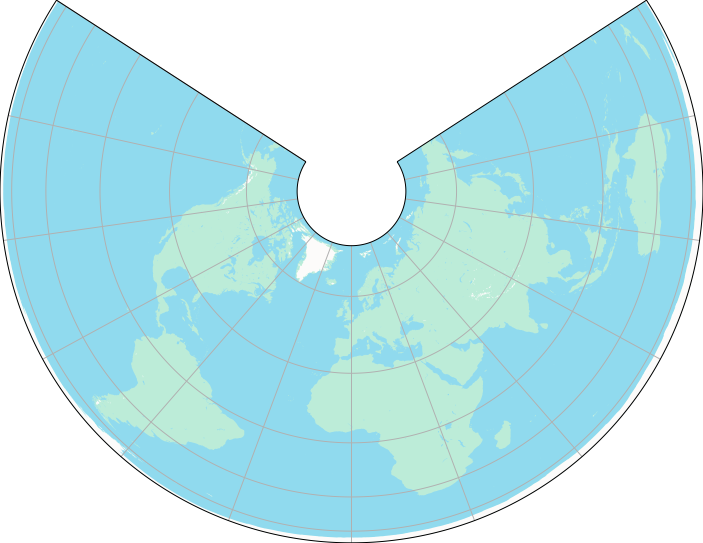
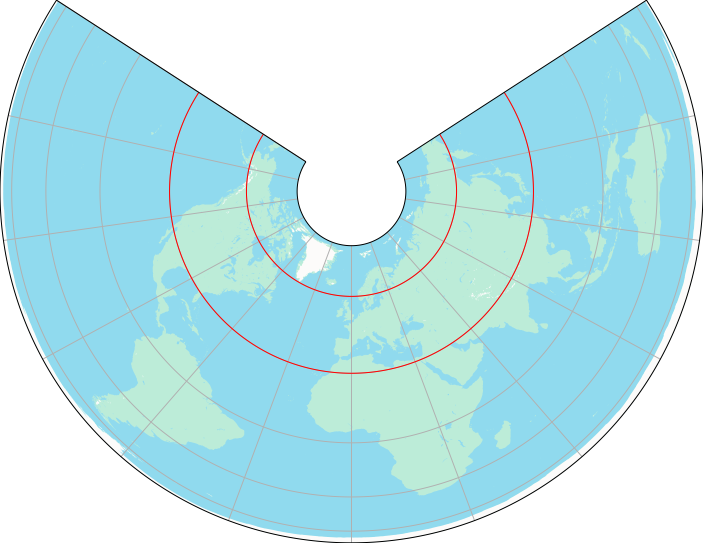
8e4fa02 Red

diff --git a/blog/2024-10-25-three-conic-projections/index.html b/blog/2024-10-25-three-conic-projections/index.html
@@ -36,7 +36,7 @@ three projections.</p>
 <p>In each of the projections, the map maker has to choose two standard parallels
 (lines of constant latitude). The map is true to scale along these standard
 parallels. In all of the examples below, the standard parallels are set to 30°
-and 60° north, but these are completely arbitrary choices.</p>
+and 60° north (shown in red).</p>
 <p>In all of the conic projections, the scale elongates in an east-west direction
 north and south of the standard parallels. The scale compresses in an east-west
 direction between the standard parallels. This is a consequence of the shape
